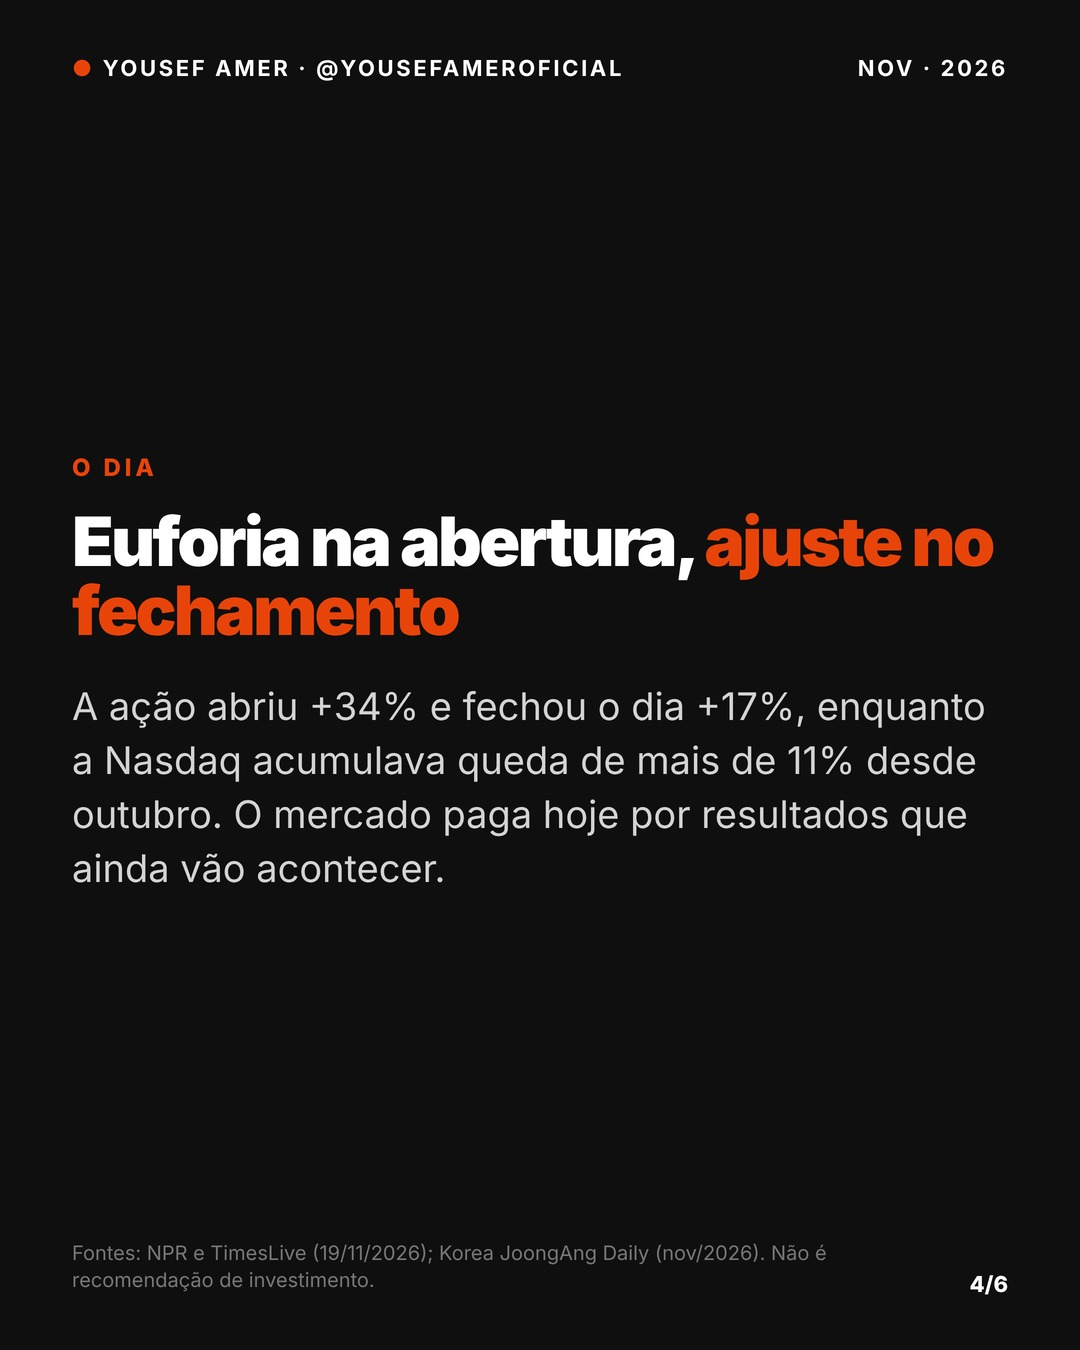
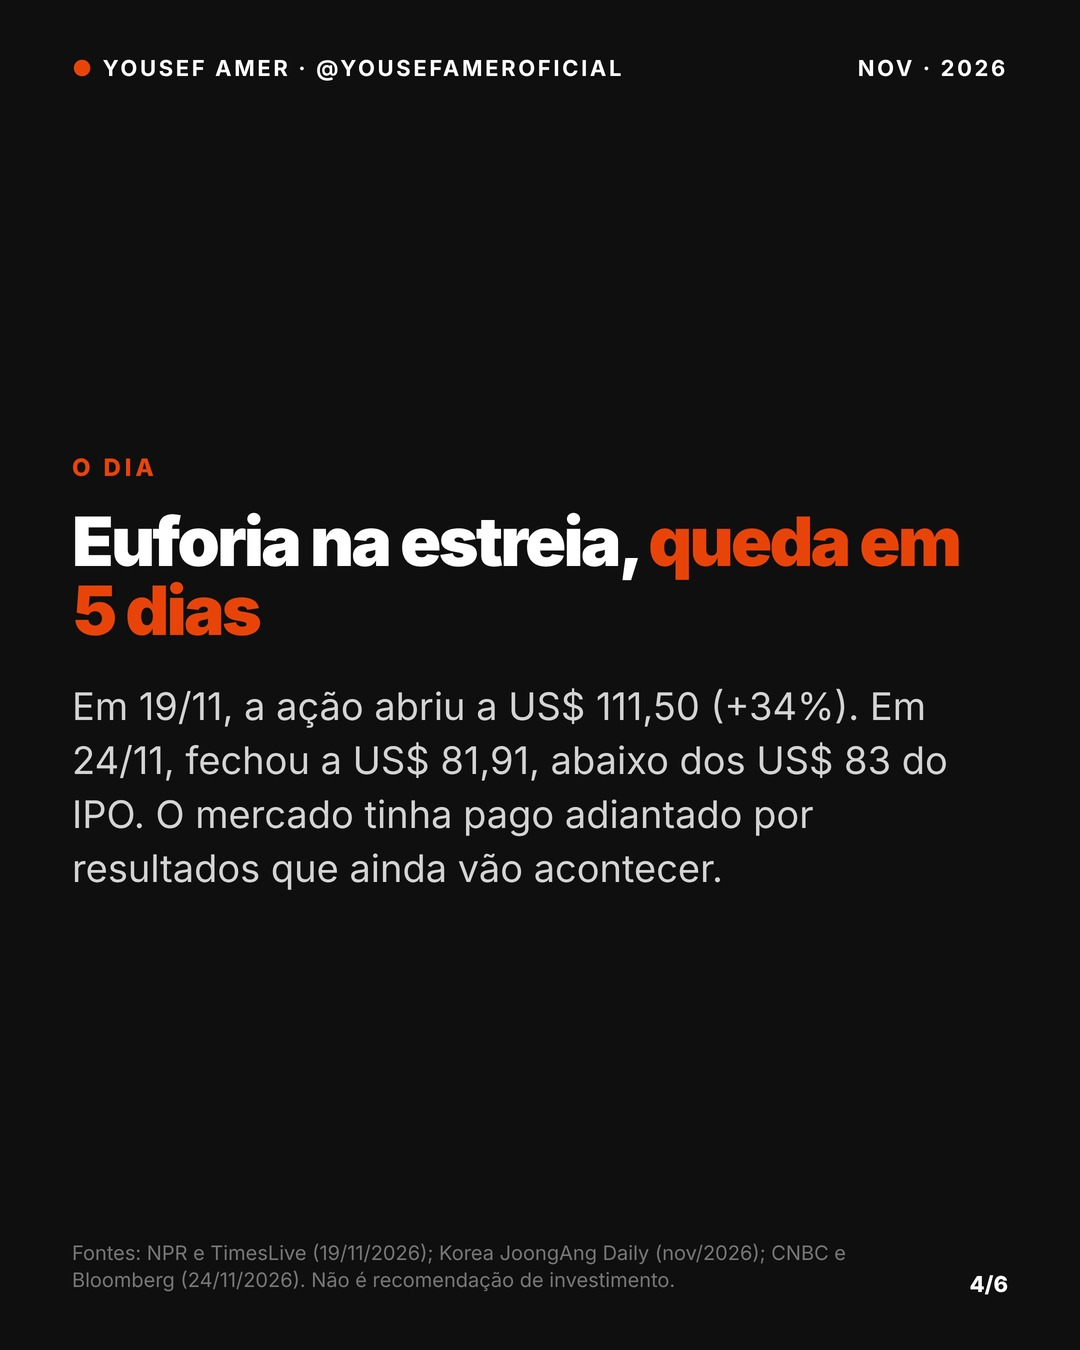
X e Threads 25/11; carrossel Anthropic atualizado (ação abaixo do preço do IPO)
Claude-Session: https://claude.ai/code/session_01PgX7nvM3iYSo6xDzmGNfnx

diff --git a/marketing/yousef/carrosseis/2026-12-s2-anthropic/slides/02.html b/marketing/yousef/carrosseis/2026-12-s2-anthropic/slides/02.html
@@ -4,4 +4,4 @@ ul.l{list-style:none;margin-top:34px}ul.l li{font-size:36px;line-height:1.35;fon
 ul.l li:before{content:'→';position:absolute;left:0;color:#E8440A;font-weight:900}.dark ul.l li{border-color:rgba(255,255,255,.12);color:#fff}
 .grain{position:absolute;inset:0;background:url(grain.png);opacity:.07;mix-blend-mode:overlay;pointer-events:none}
 .big2{font-size:150px;font-weight:900;letter-spacing:-.05em;line-height:.95;color:#E8440A}
-</style></head><body class="dark"><div class="top" style="z-index:3"><span><b>●</b> YOUSEF AMER · @YOUSEFAMEROFICIAL</span><span>NOV · 2026</span></div><div style="position:absolute;inset:0;background:url(hq-nasdaq-tower.jpg) center 8%/cover;filter:contrast(1.06) saturate(.92) brightness(1)"></div><div style="position:absolute;inset:0;background:linear-gradient(180deg,rgba(15,15,15,.55) 0%,rgba(15,15,15,0) 14%,rgba(15,15,15,0) 24%,rgba(15,15,15,.88) 42%,#0F0F0F 54%)"></div><div class="grain"></div><div class="wrap" style="top:auto;bottom:110px"><div class="kick">O FATO</div><h2 style="color:#fff">Estreia na Nasdaq em 19/11</h2><p>As ações da Anthropic saíram a US$ 83, acima da faixa de US$ 70 a 78, e abriram a US$ 111,50 (+34%).</p></div><div class="src">Fontes: NPR e TimesLive (19/11/2026); Korea JoongAng Daily (nov/2026). Não é recomendação de investimento. Foto: Nielsoncaetanosalmeron (CC BY 4.0).</div><div class="pg">2/6</div></body></html>
+</style></head><body class="dark"><div class="top" style="z-index:3"><span><b>●</b> YOUSEF AMER · @YOUSEFAMEROFICIAL</span><span>NOV · 2026</span></div><div style="position:absolute;inset:0;background:url(hq-nasdaq-tower.jpg) center 8%/cover;filter:contrast(1.06) saturate(.92) brightness(1)"></div><div style="position:absolute;inset:0;background:linear-gradient(180deg,rgba(15,15,15,.55) 0%,rgba(15,15,15,0) 14%,rgba(15,15,15,0) 24%,rgba(15,15,15,.88) 42%,#0F0F0F 54%)"></div><div class="grain"></div><div class="wrap" style="top:auto;bottom:110px"><div class="kick">O FATO</div><h2 style="color:#fff">Estreia na Nasdaq em 19/11</h2><p>As ações da Anthropic saíram a US$ 83, acima da faixa de US$ 70 a 78, e abriram a US$ 111,50 (+34%).</p></div><div class="src">Fontes: NPR e TimesLive (19/11/2026). Não é recomendação de investimento. Foto: Nielsoncaetanosalmeron (CC BY 4.0).</div><div class="pg">2/6</div></body></html>

diff --git a/marketing/yousef/carrosseis/2026-12-s2-anthropic/slides/04.html b/marketing/yousef/carrosseis/2026-12-s2-anthropic/slides/04.html
@@ -4,4 +4,4 @@ ul.l{list-style:none;margin-top:34px}ul.l li{font-size:36px;line-height:1.35;fon
 ul.l li:before{content:'→';position:absolute;left:0;color:#E8440A;font-weight:900}.dark ul.l li{border-color:rgba(255,255,255,.12);color:#fff}
 .grain{position:absolute;inset:0;background:url(grain.png);opacity:.07;mix-blend-mode:overlay;pointer-events:none}
 .big2{font-size:150px;font-weight:900;letter-spacing:-.05em;line-height:.95;color:#E8440A}
-</style></head><body class="dark"><div class="top" style="z-index:3"><span><b>●</b> YOUSEF AMER · @YOUSEFAMEROFICIAL</span><span>NOV · 2026</span></div><div class="wrap" style="top:50%;transform:translateY(-50%)"><div class="kick">O DIA</div><h2 style="color:#fff">Euforia na abertura, <span class="or">ajuste no fechamento</span></h2><p>A ação abriu +34% e fechou o dia +17%, enquanto a Nasdaq acumulava queda de mais de 11% desde outubro. O mercado paga hoje por resultados que ainda vão acontecer.</p></div><div class="src">Fontes: NPR e TimesLive (19/11/2026); Korea JoongAng Daily (nov/2026). Não é recomendação de investimento.</div><div class="pg">4/6</div></body></html>
+</style></head><body class="dark"><div class="top" style="z-index:3"><span><b>●</b> YOUSEF AMER · @YOUSEFAMEROFICIAL</span><span>NOV · 2026</span></div><div class="wrap" style="top:50%;transform:translateY(-50%)"><div class="kick">O DIA</div><h2 style="color:#fff">Euforia na estreia, <span class="or">queda em 5 dias</span></h2><p>Em 19/11, a ação abriu a US$ 111,50 (+34%). Em 24/11, fechou a US$ 81,91, abaixo dos US$ 83 do IPO. O mercado tinha pago adiantado por resultados que ainda vão acontecer.</p></div><div class="src">Fontes: NPR e TimesLive (19/11/2026); Korea JoongAng Daily (nov/2026); CNBC e Bloomberg (24/11/2026). Não é recomendação de investimento.</div><div class="pg">4/6</div></body></html>

diff --git a/marketing/yousef/carrosseis/2026-12-s2-anthropic/slides/05.html b/marketing/yousef/carrosseis/2026-12-s2-anthropic/slides/05.html
@@ -4,4 +4,4 @@ ul.l{list-style:none;margin-top:34px}ul.l li{font-size:36px;line-height:1.35;fon
 ul.l li:before{content:'→';position:absolute;left:0;color:#E8440A;font-weight:900}.dark ul.l li{border-color:rgba(255,255,255,.12);color:#fff}
 .grain{position:absolute;inset:0;background:url(grain.png);opacity:.07;mix-blend-mode:overlay;pointer-events:none}
 .big2{font-size:150px;font-weight:900;letter-spacing:-.05em;line-height:.95;color:#E8440A}
-</style></head><body class="dark"><div class="top" style="z-index:3"><span><b>●</b> YOUSEF AMER · @YOUSEFAMEROFICIAL</span><span>NOV · 2026</span></div><div class="wrap" style="top:50%;transform:translateY(-50%)"><div class="kick">NO SEU BOLSO</div><h2 style="color:#fff">Parcelar é fazer o &quot;IPO&quot; da sua renda futura</h2><p>Cada parcela vende hoje um pedaço do seu salário de amanhã. Funciona se a renda vier como prometido. Planeje com o cenário realista, não com o otimista.</p></div><div class="src">Fontes: NPR e TimesLive (19/11/2026); Korea JoongAng Daily (nov/2026). Não é recomendação de investimento.</div><div class="pg">5/6</div></body></html>
+</style></head><body class="dark"><div class="top" style="z-index:3"><span><b>●</b> YOUSEF AMER · @YOUSEFAMEROFICIAL</span><span>NOV · 2026</span></div><div class="wrap" style="top:50%;transform:translateY(-50%)"><div class="kick">NO SEU BOLSO</div><h2 style="color:#fff">Parcelar é fazer o &quot;IPO&quot; da sua renda futura</h2><p>Cada parcela vende hoje um pedaço do seu salário de amanhã. Funciona se a renda vier como prometido. Planeje com o cenário realista, não com o otimista.</p></div><div class="src">Fontes: NPR e TimesLive (19/11/2026); Korea JoongAng Daily (nov/2026); CNBC e Bloomberg (24/11/2026). Não é recomendação de investimento.</div><div class="pg">5/6</div></body></html>

diff --git a/marketing/yousef/carrosseis/2026-12-s2-anthropic/slides/03.html b/marketing/yousef/carrosseis/2026-12-s2-anthropic/slides/03.html
@@ -4,4 +4,4 @@ ul.l{list-style:none;margin-top:34px}ul.l li{font-size:36px;line-height:1.35;fon
 ul.l li:before{content:'→';position:absolute;left:0;color:#E8440A;font-weight:900}.dark ul.l li{border-color:rgba(255,255,255,.12);color:#fff}
 .grain{position:absolute;inset:0;background:url(grain.png);opacity:.07;mix-blend-mode:overlay;pointer-events:none}
 .big2{font-size:150px;font-weight:900;letter-spacing:-.05em;line-height:.95;color:#E8440A}
-</style></head><body class="dark"><div class="top" style="z-index:3"><span><b>●</b> YOUSEF AMER · @YOUSEFAMEROFICIAL</span><span>NOV · 2026</span></div><div class="wrap" style="top:50%;transform:translateY(-50%)"><div class="kick">OS NÚMEROS</div><h2 style="color:#fff">Recorde absoluto</h2><ul class="l"><li>Mais de US$ 107 bi somando oferta e colocação privada</li><li>Supera os US$ 75 bi da SpaceX (junho/2026)</li><li>Valor de ~US$ 1,5 trilhão ao preço do IPO</li></ul></div><div class="src">Fontes: NPR e TimesLive (19/11/2026); Korea JoongAng Daily (nov/2026). Não é recomendação de investimento.</div><div class="pg">3/6</div></body></html>
+</style></head><body class="dark"><div class="top" style="z-index:3"><span><b>●</b> YOUSEF AMER · @YOUSEFAMEROFICIAL</span><span>NOV · 2026</span></div><div class="wrap" style="top:50%;transform:translateY(-50%)"><div class="kick">OS NÚMEROS</div><h2 style="color:#fff">Recorde absoluto</h2><ul class="l"><li>Mais de US$ 107 bi somando oferta e colocação privada</li><li>Supera os US$ 75 bi da SpaceX (junho/2026)</li><li>Valor de ~US$ 1,5 trilhão ao preço do IPO</li></ul></div><div class="src">Fontes: NPR e TimesLive (19/11/2026); Korea JoongAng Daily (nov/2026); CNBC e Bloomberg (24/11/2026). Não é recomendação de investimento.</div><div class="pg">3/6</div></body></html>
